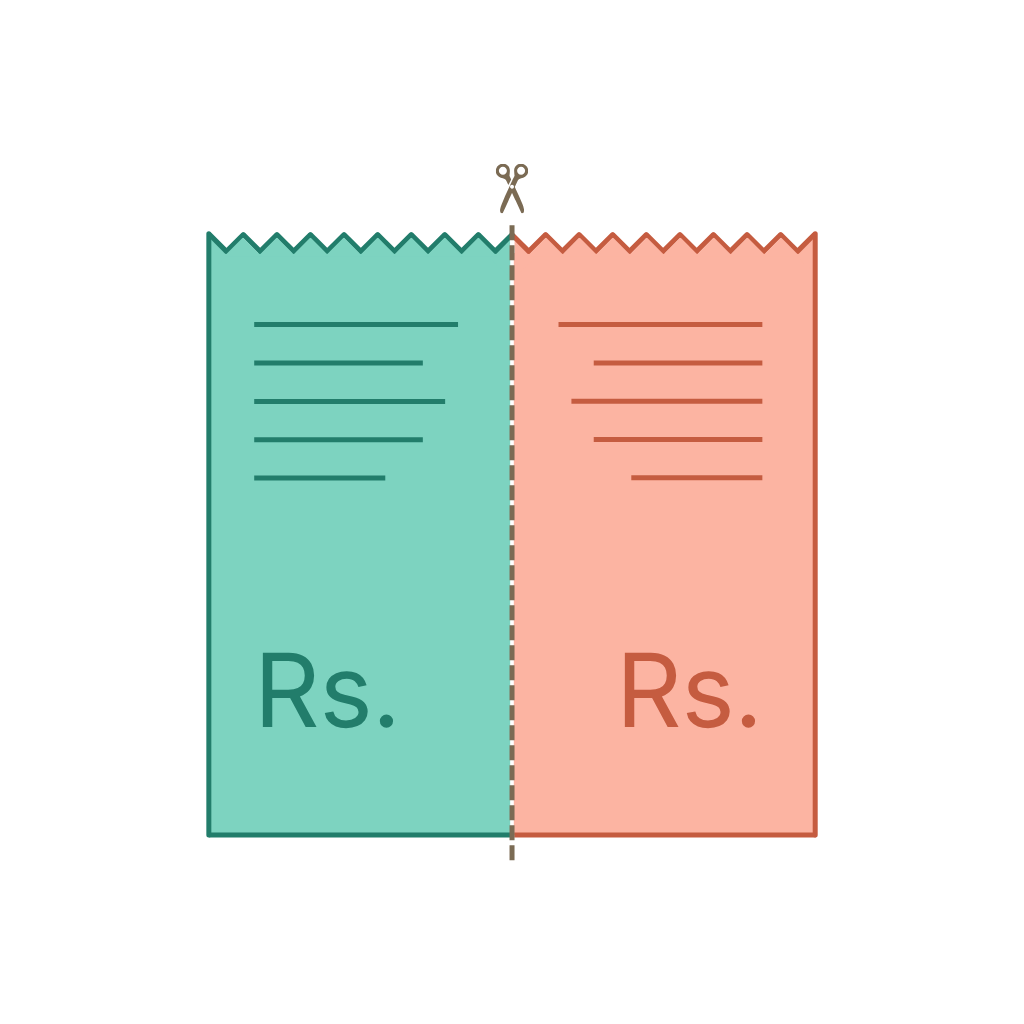
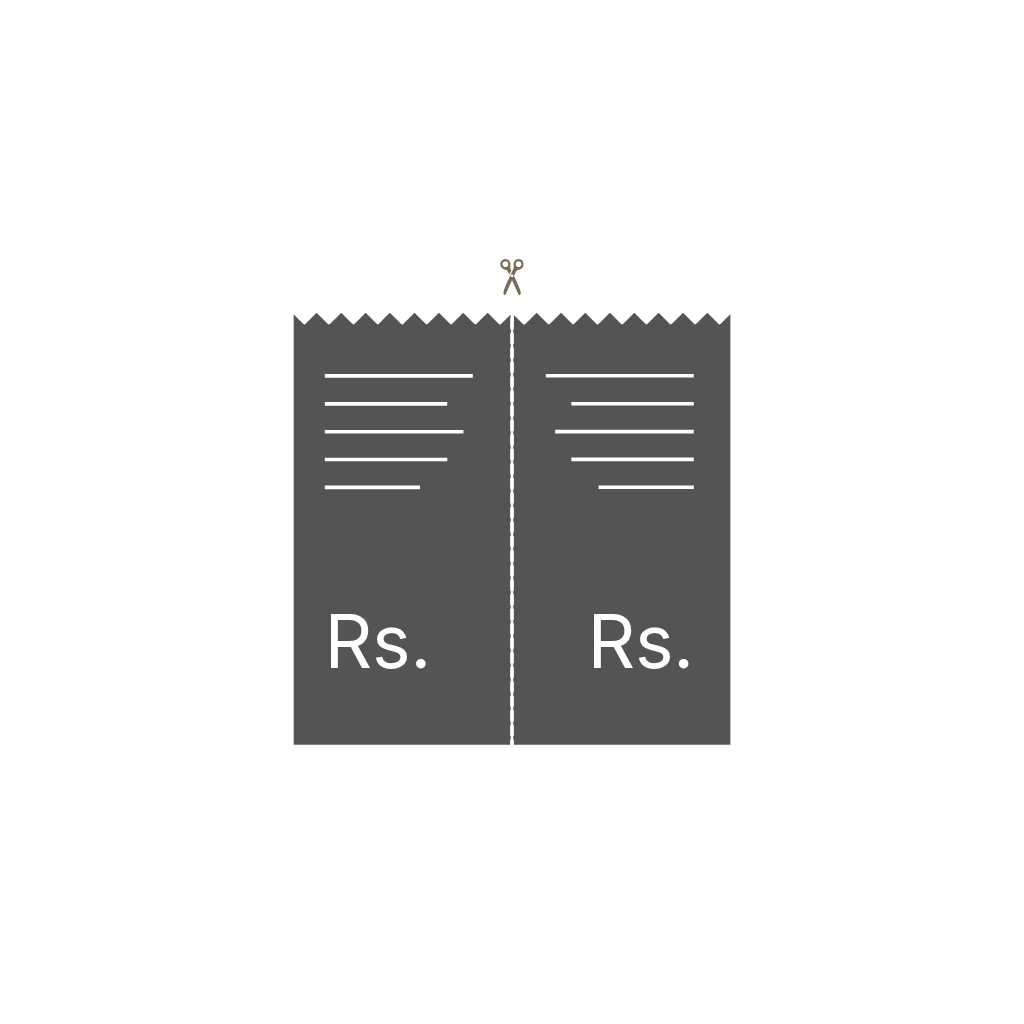
feat: graphics enhancement

diff --git a/app/trip/new.tsx b/app/trip/new.tsx
@@ -1,7 +1,7 @@
 import { Ionicons } from "@expo/vector-icons";
-import { useRouter } from "expo-router";
-import { useMemo, useState } from "react";
-import { Alert, Pressable, View } from "react-native";
+import { useNavigation, useRouter } from "expo-router";
+import { useEffect, useMemo, useRef, useState } from "react";
+import { Alert, Pressable, TextInput, View } from "react-native";
 import {
   KeyboardAwareScrollView,
   KeyboardStickyView,
@@ -21,6 +21,7 @@ import {
   setPersonArchived,
 } from "@/storage/personsStore";
 import { createTrip } from "@/storage/tripsStore";
+import type { Person } from "@/types/models";
 import { useTheme } from "@/theme";
 
 const DEFAULT_CURRENCY = "NPR";
@@ -28,7 +29,10 @@ const DEFAULT_CURRENCY = "NPR";
 export default function NewTripScreen() {
   const theme = useTheme();
   const router = useRouter();
+  const navigation = useNavigation();
   const persons = usePersons();
+  const nameRef = useRef<TextInput>(null);
+  const newPersonRef = useRef<TextInput>(null);
   const trips = useTrips();
 
   const [name, setName] = useState("");
@@ -36,6 +40,25 @@ export default function NewTripScreen() {
   const [adding, setAdding] = useState(false);
   const [newName, setNewName] = useState("");
   const [submitted, setSubmitted] = useState(false);
+  // Non-null once Create is pressed: a snapshot of the chip list taken *before*
+  // any store writes. Creating a Person on submit would otherwise insert a chip
+  // into this screen in the same frame that router.replace tears the screen
+  // down, and Fabric's view recycling crashes with "addViewAt: ... child
+  // already has a parent".
+  const [frozenPersons, setFrozenPersons] = useState<Person[] | null>(null);
+
+  // Focusing during the modal's enter transition makes the keyboard resize the
+  // screen mid-mount, which crashes Fabric with "child already has a parent".
+  useEffect(() => {
+    const unsubscribe = navigation.addListener(
+      // @ts-expect-error native-stack event, not in the typed route event map
+      "transitionEnd",
+      (e: { data?: { closing?: boolean } }) => {
+        if (!e?.data?.closing) nameRef.current?.focus();
+      },
+    );
+    return unsubscribe;
+  }, [navigation]);
 
   const usageByPerson = useMemo(() => {
     const map = new Map<string, number>();
@@ -73,6 +96,17 @@ export default function NewTripScreen() {
     });
   };
 
+  // Tearing down the focused inline input in the same commit that inserts the
+  // new chip makes the keyboard collapse while Fabric is still mounting the
+  // wrap row, and Android crashes with "addViewAt: ... child already has a
+  // parent". Blur first, then unmount a frame later so the two mount batches
+  // never overlap.
+  const closeAddRow = () => {
+    newPersonRef.current?.blur();
+    setNewName("");
+    requestAnimationFrame(() => setAdding(false));
+  };
+
   const addNew = () => {
     const trimmed = newName.trim();
     if (!trimmed) return;
@@ -91,15 +125,17 @@ export default function NewTripScreen() {
         );
       }
       setSelected((prev) => new Set(prev).add(exists.id));
-      setNewName("");
-      setAdding(false);
+      closeAddRow();
       return;
     }
     const p = createPerson(trimmed);
     setSelected((prev) => new Set(prev).add(p.id));
-    setNewName("");
-    setAdding(false);
+    closeAddRow();
   };
+
+  // While submitting, keep rendering the pre-submit list so the outgoing screen
+  // never mutates its view tree.
+  const shownPersons = frozenPersons ?? sortedPersons;
 
   const pendingNewName = adding ? newName.trim() : "";
   // The pending name resolves to an existing Person when it matches one
@@ -125,8 +161,10 @@ export default function NewTripScreen() {
   const canSubmit = name.trim().length > 0 && effectiveCount >= 2;
 
   const handleCreate = () => {
+    if (frozenPersons) return; // already submitting
     setSubmitted(true);
     if (!canSubmit) return;
+    setFrozenPersons(sortedPersons);
 
     // Resolve every selected Person up-front so we don't depend on stale
     // hook snapshots after a synchronous createPerson call.
@@ -149,7 +187,9 @@ export default function NewTripScreen() {
         .filter((p): p is NonNullable<typeof p> => !!p)
         .map((p) => ({ personId: p.id, name: p.name })),
     });
-    router.replace(`/trip/${trip.id}` as never);
+    // Leave on the next frame so the store writes above commit in a mount
+    // batch of their own, separate from the screen swap.
+    requestAnimationFrame(() => router.replace(`/trip/${trip.id}` as never));
   };
 
   return (
@@ -178,7 +218,7 @@ export default function NewTripScreen() {
           placeholder="e.g. Pokhara Weekend"
           value={name}
           onChangeText={setName}
-          autoFocus
+          ref={nameRef}
           autoCapitalize="words"
           autoCorrect={false}
           error={nameError}
@@ -194,7 +234,7 @@ export default function NewTripScreen() {
           </View>
 
           <View style={{ flexDirection: "row", flexWrap: "wrap", gap: 8 }}>
-            {sortedPersons.map((p) => {
+            {shownPersons.map((p) => {
               const active = selected.has(p.id);
               return (
                 <Pressable
@@ -270,6 +310,7 @@ export default function NewTripScreen() {
             >
               <View style={{ flex: 1 }}>
                 <TextField
+                  ref={newPersonRef}
                   placeholder="Their name"
                   value={newName}
                   onChangeText={setNewName}
@@ -284,10 +325,7 @@ export default function NewTripScreen() {
               <IconButton
                 size={40}
                 variant="flat"
-                onPress={() => {
-                  setAdding(false);
-                  setNewName("");
-                }}
+                onPress={closeAddRow}
               >
                 <Ionicons
                   name="close"
